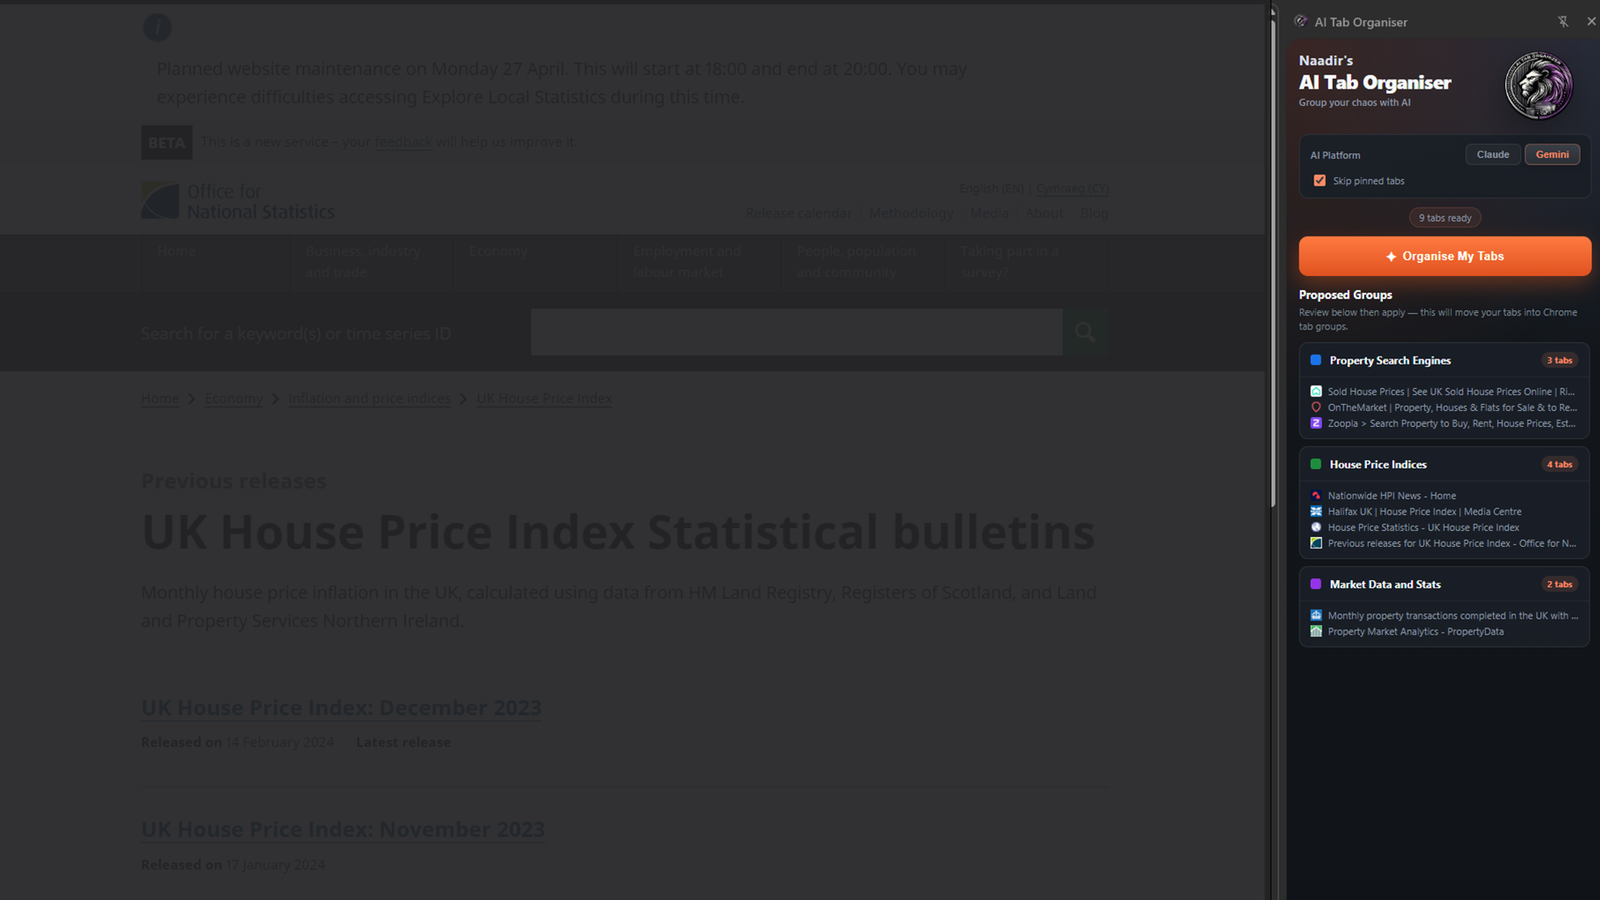
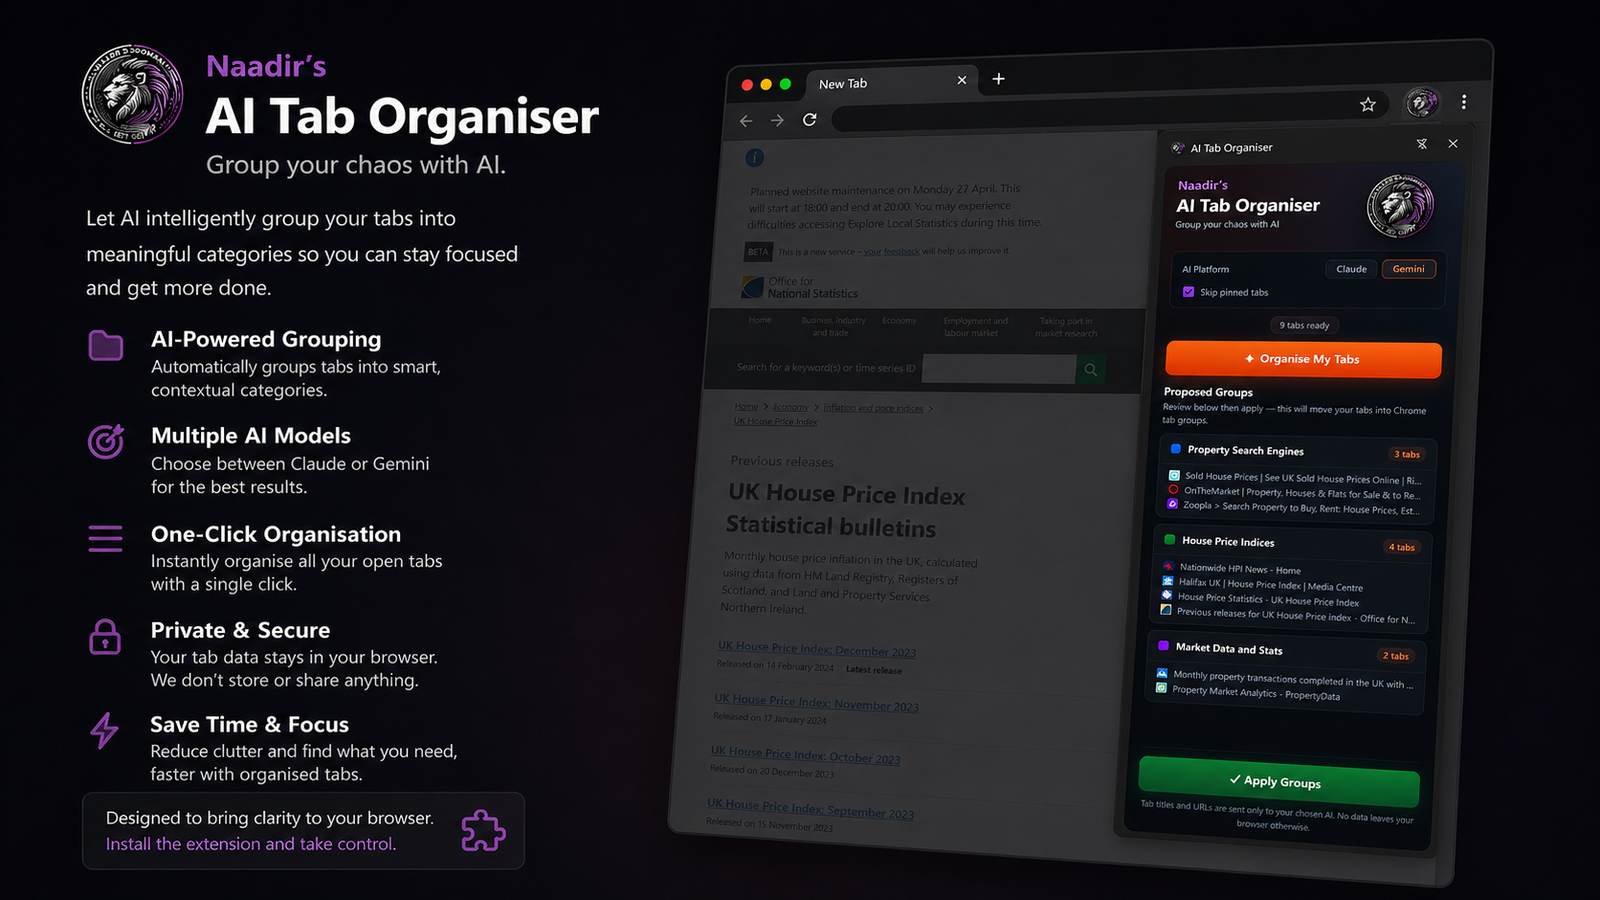
Update portfolio metadata, README, and assets

diff --git a/README.md b/README.md
@@ -1,44 +1,164 @@
-# AI-Article-Sender
+---
+<div align="center">
 
-> Chrome extension that scrapes any article and sends the full text directly to ChatGPT, Claude, Gemini, or Perplexity.
+<img src="./repo-card.png" alt="AI Tab Organiser project card" width="100%" />
+<br /><br />
 
-![AI-Article-Sender](repo-card.png)
+<p><strong>Chrome extension that instantly groups all your open tabs into colour-coded categories using Claude or Gemini.</strong></p>
 
-Built by [Naadir](https://github.com/Naadir-Dev-Portfolio)
+<p>Built for people who keep too many tabs open and need a faster way to turn browser clutter into usable working groups.</p>
+
+<p>
+  <a href="#overview">Overview</a> |
+  <a href="#what-problem-it-solves">What It Solves</a> |
+  <a href="#feature-highlights">Features</a> |
+  <a href="#screenshots">Screenshots</a> |
+  <a href="#quick-start">Quick Start</a> |
+  <a href="#tech-stack">Tech Stack</a>
+</p>
+
+<h3><strong>Made by Naadir | April 2026</strong></h3>
+
+</div>
 
 ---
 
 ## Overview
 
-Reading something interesting and want an AI take on it? One click in the side panel scrapes the full article text from the current tab and injects it straight into whichever AI platform you choose — no copy-pasting, no truncation worries. Scraped articles are saved locally so you can re-send or revisit them later without hitting the page again.
+AI Tab Organiser is a Chrome extension that reads your currently open tabs, sends their titles and domains to your chosen AI platform, and turns the result into proposed tab groups. It supports Claude and Gemini, with a simple side panel interface for choosing the model, skipping pinned tabs, reviewing groups, and applying them.
 
----
+The workflow is direct: open messy tabs, click **Organise My Tabs**, review the suggested groups, then apply them to Chrome. The extension creates real Chrome tab groups with concise names and colours, so the browser becomes easier to scan and use immediately.
 
-## Features
+The practical outcome is less tab noise, faster context switching, and cleaner research sessions without manually dragging tabs into groups one by one.
 
-- Scrapes article body text from any webpage via an injected content script
-- Sends up to 20,000 characters directly into ChatGPT, Claude, Gemini, or Perplexity
-- Side-panel UI with per-entry expand/collapse and a persistent article library
-- Deduplicates by URL — re-scraping a page updates the existing entry rather than creating a duplicate
-- Auto-injects the content script on-demand if the extension was loaded after the tab opened
-- Works on any URL including pages opened before the extension was installed
+## What Problem It Solves
 
----
+- Removes the clutter caused by large sets of unrelated open tabs
+- Replaces manual tab sorting, naming, and colour assignment with an AI-assisted flow
+- Makes it clearer which tabs belong to the same task, research area, or topic
+- Useful compared with the default browser approach because Chrome gives you tab groups, but not intelligent grouping or naming
+
+### At a glance
+
+| Track | Analyse | Compare |
+|---|---|---|
+| Open browser tabs | Tab titles, domains, and topic patterns | Claude-generated groups vs Gemini-generated groups |
+| Current window tab state | Logical category grouping and colour assignment | Ungrouped chaos vs organised Chrome tab groups |
+| Proposed group preview | Structured group list with tab counts | Manual sorting time vs one-click apply flow |
+
+## Feature Highlights
+
+- **AI-powered grouping**, automatically sorts open tabs into meaningful categories based on page titles and domains
+- **Claude and Gemini support**, lets you choose which AI platform handles the grouping request
+- **Skip pinned tabs**, protects permanent or important tabs from being moved into temporary groups
+- **Review before applying**, shows proposed groups before changing the browser state
+- **Native Chrome tab groups**, applies real Chrome groups with titles and colours instead of fake in-extension folders
+- **Ungroup flow**, lets you clear the groups created by the extension when you want to reset the session
+
+### Core capabilities
+
+| Area | What it gives you |
+|---|---|
+| **Tab discovery** | Reads eligible tabs from the current Chrome window while excluding browser-internal pages |
+| **AI organisation** | Sends a structured prompt to Claude or Gemini and receives grouped tab suggestions |
+| **Group preview** | Displays proposed groups, tab counts, favicons, and tab titles before applying changes |
+| **Chrome integration** | Creates, names, colours, applies, and clears native Chrome tab groups |
+
+## Screenshots
+
+<details>
+<summary><strong>Open screenshot gallery</strong></summary>
+
+<br />
+
+<div align="center">
+  <img src="./screens/screen1.png" alt="AI Tab Organiser side panel showing proposed tab groups" width="88%" />
+  <br /><br />
+  <img src="./screens/screen2.png" alt="Chrome window with AI Tab Organiser opened as a side panel" width="88%" />
+  <br /><br />
+  <img src="./screens/screen3.png" alt="Promotional project image for the AI Tab Organiser extension" width="88%" />
+</div>
+
+</details>
+
+## Quick Start
+
+```bash
+# Clone the repo
+git clone https://github.com/Naadir-Dev-Portfolio/AI-Tab-Organiser.git
+cd AI-Tab-Organiser
+
+# Install dependencies
+No install required
+
+# Run
+Load the folder as an unpacked extension in Chrome
+```
+
+No API keys are required. The extension opens Claude or Gemini in a temporary background window and sends the tab grouping prompt through the selected AI platform. To run it locally, open Chrome, go to `chrome://extensions`, enable Developer Mode, choose **Load unpacked**, and select the project folder.
 
 ## Tech Stack
 
-`JavaScript` · `HTML` · `CSS` · `Chrome Extensions API (Manifest V3)`
+<details>
+<summary><strong>Open tech stack</strong></summary>
+
+<br />
+
+| Category | Tools |
+|---|---|
+| **Primary stack** | `avaScript` | `HTML` | `CSS` |
+| **UI / App layer** | Chrome Extension Side Panel API, vanilla HTML, custom CSS, DOM scripting |
+| **Data / Storage** | In-memory tab state, Chrome tabs API, Chrome tabGroups API |
+| **Automation / Integration** | Claude, Gemini, Chrome scripting API, Chrome windows API |
+| **Platform** | Chrome browser extension |
+
+</details>
+
+## Architecture & Data
+
+<details>
+<summary><strong>Open architecture and data details</strong></summary>
+
+<br />
+
+### Application model
+
+The extension starts from the Chrome side panel. It reads all eligible tabs in the current window, filters out pinned tabs when requested, removes browser-internal URLs, then builds a structured prompt containing tab indexes, titles, and domains. The selected AI platform receives the prompt and returns a JSON array of proposed groups.
+
+The extension parses the AI response, validates the group data, renders a preview in the side panel, and waits for user confirmation. When the user clicks **Apply Groups**, it maps the AI-provided tab indexes back to real Chrome tab IDs, creates native Chrome tab groups, assigns group names and colours, and stores the created group IDs so they can be cleared later.
+
+### Project structure
+
+```text
+AI-Tab-Organiser/
++-- manifest.json
++-- background.js
++-- sidepanel.html
++-- sidepanel.js
++-- styles.css
++-- icon/
+|   +-- ai_tab_organizer_logo.png
++-- README.md
++-- repo-card.png
++-- screens/
+|   +-- screen1.png
++-- portfolio/
+    +-- ai-tab-organiser.json
+    +-- ai-tab-organiser.webp
+```
+
+### Data / system notes
+
+- Tab grouping data is kept in memory while the side panel is active and is applied through Chrome’s native tab group APIs.
+- Tab titles and URLs are sent only to the selected AI platform; the extension does not require a separate backend or database.
+- The AI response is expected as raw JSON, then parsed into group names, colours, and tab index arrays before being applied.
+
+</details>
+
+## Contact
+
+Questions, feedback, or collaboration: `naadir.dev.mail@gmail.com`
+
+<sub>avaScript | HTML | CSS</sub>
 
 ---
-
-## Setup
-
-1. Clone or download this repo
-2. Open Chrome and go to `chrome://extensions/`
-3. Enable **Developer mode** (top-right toggle)
-4. Click **Load unpacked** and select this folder
-5. Pin the extension and open the side panel from any article page
-
----
-
-<sub>JavaScript · HTML · CSS</sub>
